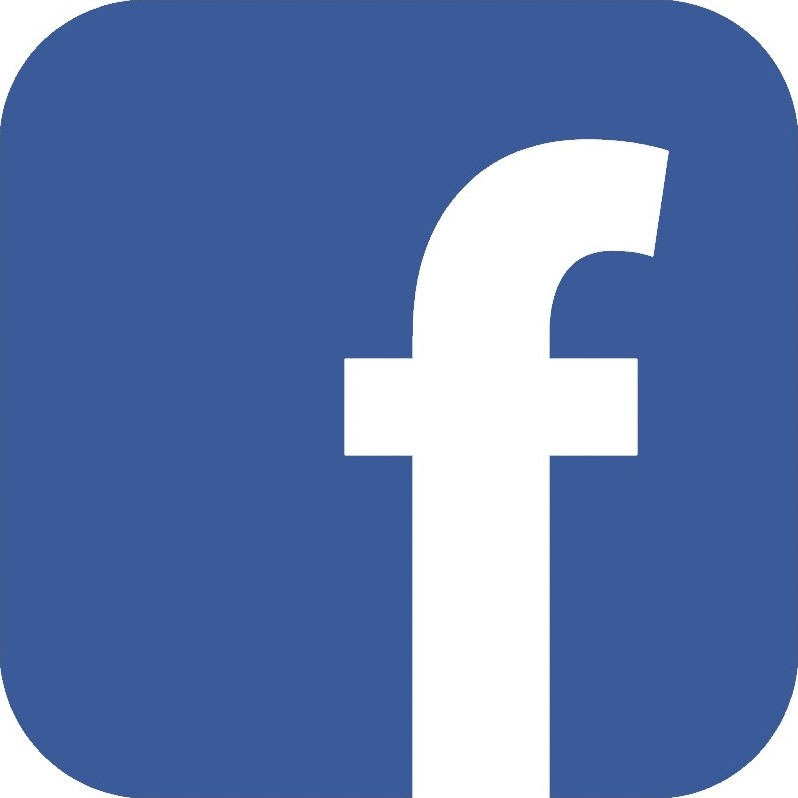
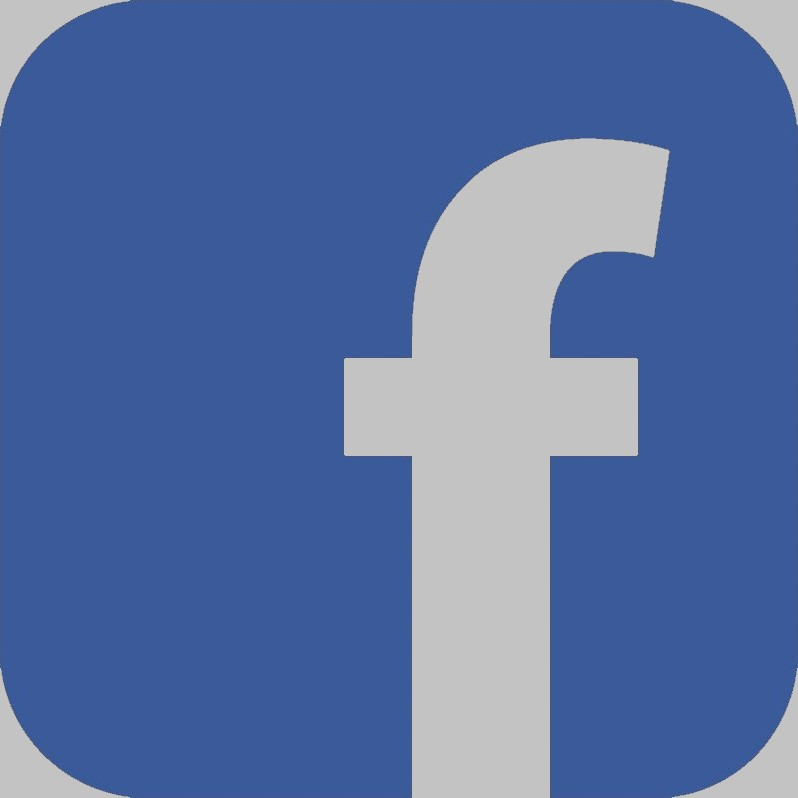
html fixes

diff --git a/index.html b/index.html
@@ -1,47 +1,45 @@
 <!DOCTYPE html>
 <html lang="en">
-  <head>
-    <permissions-policy: interest-cohort=()>
-    <meta charset="utf-8"/>
-    <meta name="viewport" content="width=device-width, initial-scale=1">
-    <link rel="stylesheet" href="./style.css"/>
-    <link rel="index.html"/>
-    <link rel="images" href="Pictures/images/">
-  </head>
-  <ul class>
+<meta charset="utf-8" />
+<meta name="viewport" content="width=device-width, initial-scale=1">
+<link rel="stylesheet" href="./style.css" />
+<link rel="index.html" />
+<link rel="images" href="Pictures/images/">
+
+<body>
+
   <li><a class="grey-text-text-lighten-3" href="/about.html">About</a></li>
   <li><a class="grey-text-text-lighten-3" href="https://github.com/Sav2234">Github Repository</a></li>
   <li><a class="grey-text-text-lighten-3" href="/projects.html">Projects</a></li>
   <li><a class="grey-text-text-lighten-3" href="https://www.linkedin.com/in/savion-elsey-williams-15b301224">linkedin</a></li>
-  </ul>
-  <p class = "port" style="margin-top: 0px;">Sav's Portfolio</p>
-    <body>
+  <p class="port" style="margin-top: 0px;">Sav's Portfolio</p>
+  <div id="line1" class="line1"></div>
+  <div class="socials">
+    <h1>socials</h1>
   </div>
+  <!-- <div class="aboutme"><h1>info</h1></div> -->
+
+  <div class="git_icon">
+    <img src="/images/github.jpg">
   </div>
+  <div class="Insta_icon">
+    <img src="/images/Insta.jpg">
   </div>
+  <div class="gmail_icon">
+    <img src="/images/gmail.jpg">
   </div>
-  <header class="start">            
-    <div id ="line1" class="line1"></div>
-  </header>  
-          <div class="socials"><h1>socials</h1></div>
-          <!-- <div class="aboutme"><h1>info</h1></div> -->
-          <div class="flex-container">
-            <div id="git_icon" class="git_icon">
-              <img src="/images/github.jpg"></div> 
-              <a href="https://github.com/Sav2234" class="gitbtn"></a>
-              <div id="Insta_icon" class="Insta_icon">
-                <img src="/images/Insta.jpg">
-                <a href="https://instagram.com" class="instabtn"></a>
-              </div>
-              <div id="gmail_icon" class ="gmail_icon">
-                <img src="/images/gmail.jpg">
-                <a href="https://gmail.com" class="gmailbtn"></a>
-              </div>
-              <div id="face_icon" class = "face_icon">
-                <img src="/images/face-icon.jpg">
-                <a href="https://facebook.com" class="facebtn"></a>
-              </div>
-            </div>
-          </div>
-        </body>
+  <div class="face_icon">
+    <img src="/images/face-icon.jpg">
+  </div>
+
+  <a href="https://instagram.com" class="instabtn"></a>
+  <a href="https://gmail.com" class="gmailbtn"></a>
+  <a href="https://facebook.com" class="facebtn"></a>
+  <a href="https://github.com/Sav2234" class="gitbtn"></a>
+
+  <footer class="end">
+    <div class="space"></div>
+  </footer>
+</body>
+
 </html>

diff --git a/style.css b/style.css
@@ -1,23 +1,13 @@
 html,
 body{
-height: 100%;
-margin: 0;
-padding: 0;
-}
-
-body {
+background-color: rgb(196, 196, 196);
 font-family: sans-serif;
-background-color: #f9fbfd;
+
 }
 
 header {
 text-align: center;
 color: hsl(206, 17%, 28%);
-}
-
-.start{
-font-size: 48px;
-
 }
 
 .grey-text-text-lighten-3{
@@ -29,18 +19,16 @@ height: 0px;
 margin-top: 50px;
 width: 100px;
 }
+
 ul{
   margin-top: 0;
 }
 
 .port{
-
 font-size: 48px;
-
 text-align: center;
 margin-left: 0;
 margin-right: 0;
-
 }
 
 .Insta_icon img{
@@ -48,7 +36,6 @@ color: hsl(0, 0%, 100%);
 position: absolute;
 left: 300px;
 top: 700px;
-
 max-width: 300px;
 }
 
@@ -58,7 +45,6 @@ color: hsl(0, 0%, 100%);
 position: absolute;
 left: 700px;
 top: 300px;
-
 max-width: 100%;
 }
 
@@ -70,7 +56,6 @@ color: hsl(0, 0%, 100%);
 position: absolute;
 left: 1100px;
 top: 300px;
-
 max-width: 100%;
 }
 
@@ -80,30 +65,10 @@ color: hsl(0, 0%, 100%);
 position: absolute;
 left: 300px;
 top: 300px;
-
 max-width: 100%;
 }
 
-.insta{
-opacity: 50%;
-height: 200px;
-position: absolute;
-background-color: lightblue;
-}
 
-.facebook{
-opacity: 50%;
-height: 200px;
-position: absolute;
-background-color: lightblue;
-}
-
-.github{
-opacity: 50%;
-height: 200px;
-position: absolute;
-background-color: lightblue;
-}
 
 .line1{
 background-color: black;
@@ -113,12 +78,6 @@ top: 225px;
 position: absolute;
 }
 
-.line2{
-height: 25px;
-width: 100%;
-position: absolute;
-
-}
 
 .socials{
 font-size: 36px;
@@ -180,15 +139,12 @@ display: flex;
 position: absolute;
 }
 
-.flex-container{
-display: flex;
-width: 100%;
-flex-wrap: wrap;
-margin: 5px;
-justify-content: space-evenly;
-max-width: 100%;
+
+.li{
+  background-color: gray;
 }
 
-.flex-container div {
-flex: 0 0 33.333%;
+.space{
+  height: 50px;
+  margin: 100px;
 }
